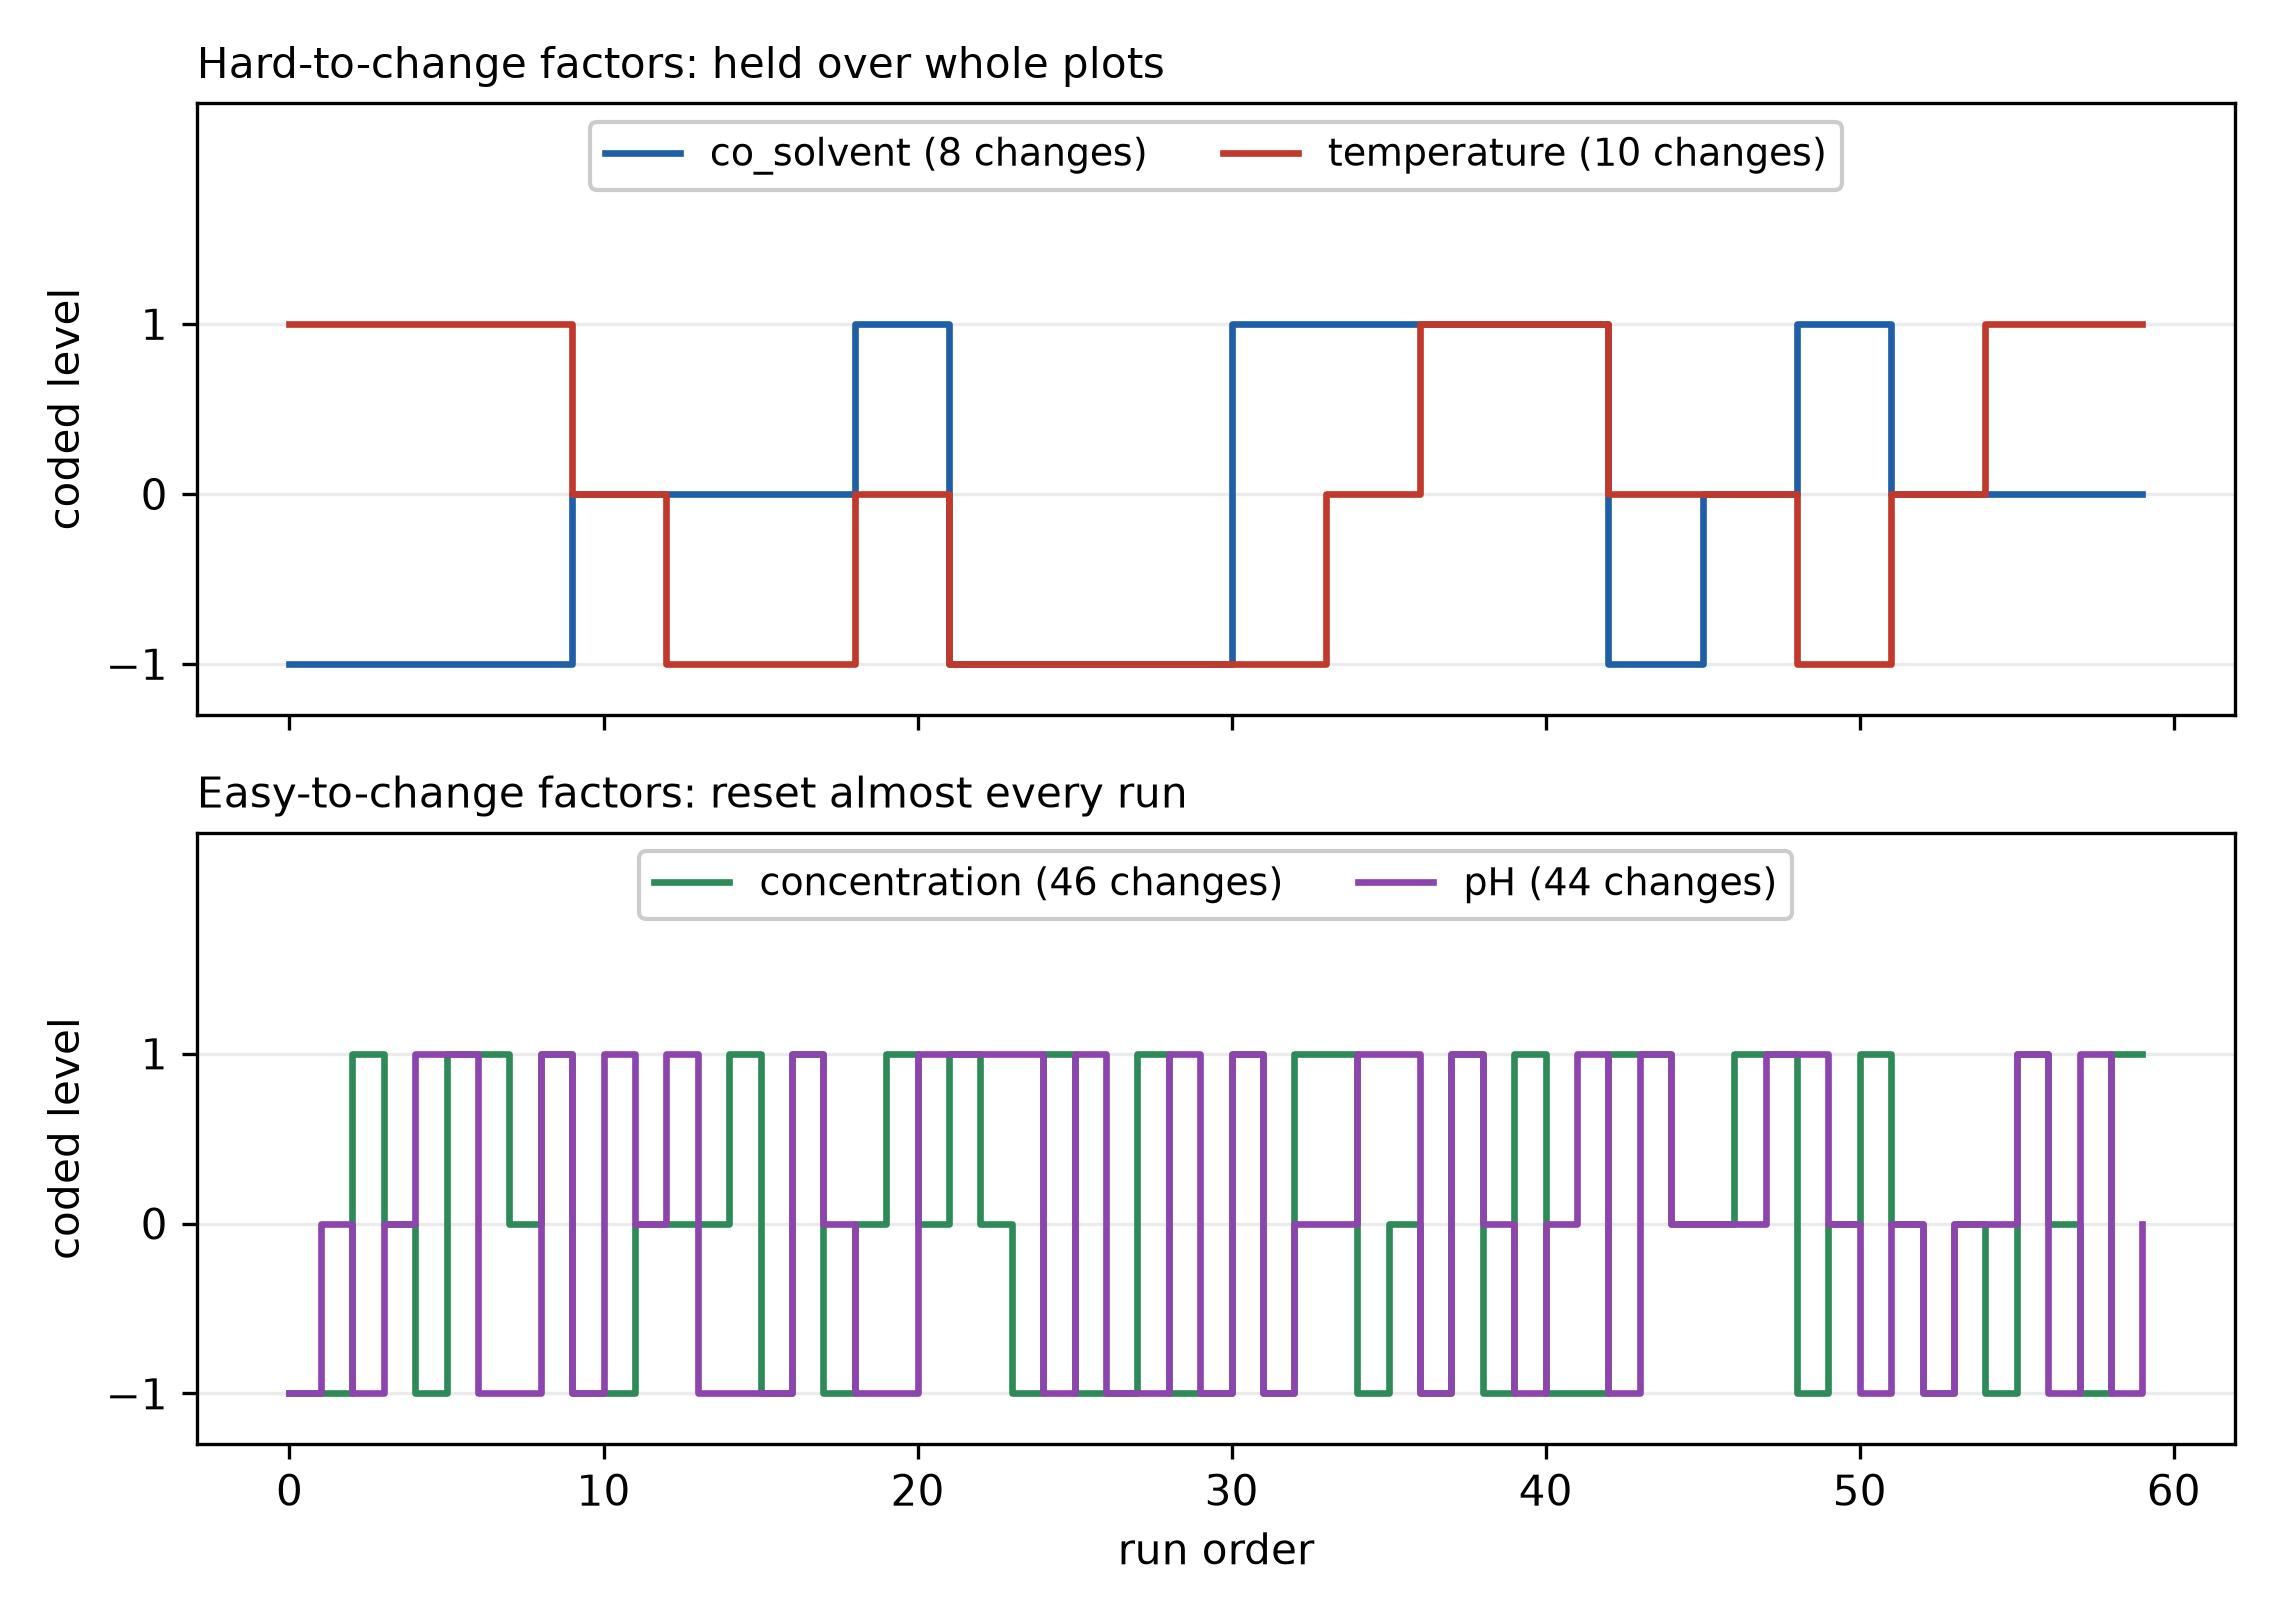
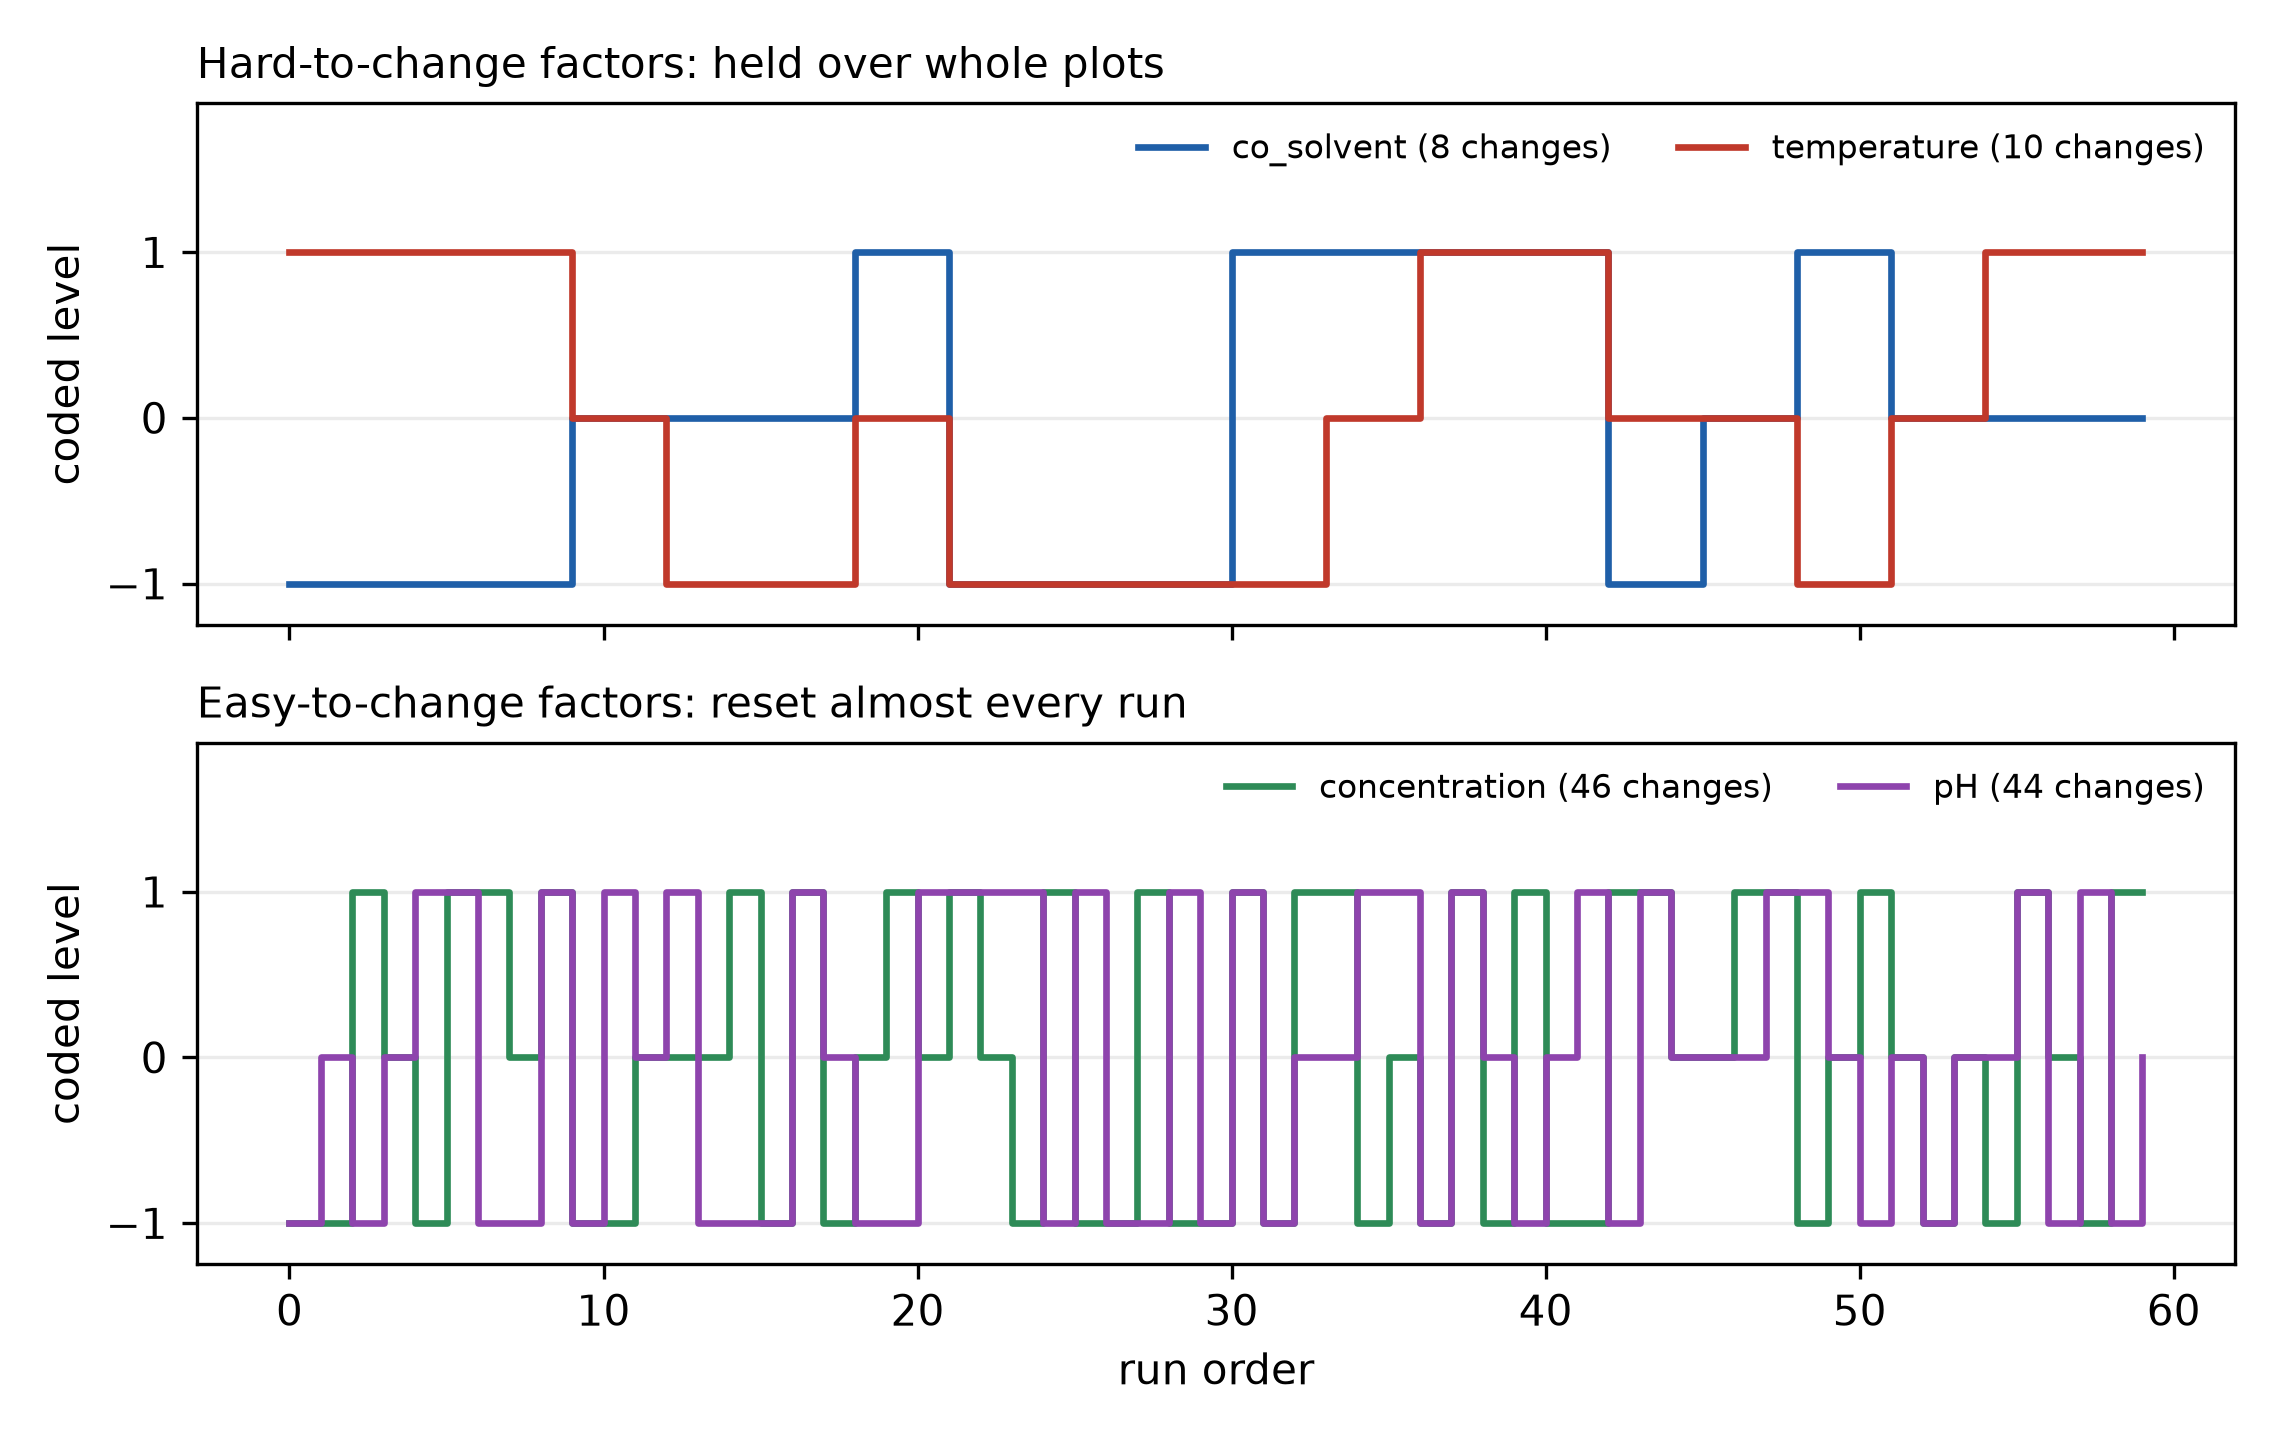
Keep the frameless legend, just raise the y-axis headroom
Revert the framed, centred legend. Restore the original frameless upper-right
legend and instead raise the y-axis maximum a little (to 1.9) so the legend
sits just above the +1 traces without overlapping them.

Claude-Session: https://claude.ai/code/session_01TvUM1DPgi2S3JFLjRJTJWj

diff --git a/doe/colour-split-plot-run-order.py b/doe/colour-split-plot-run-order.py
@@ -15,7 +15,7 @@ design = build_design("i_optimal", budget=60)
 run = design.design.sort_values("RunOrder").reset_index(drop=True)
 x = np.arange(len(run))
 
-fig, axes = plt.subplots(2, 1, figsize=(7.6, 5.4), sharex=True)
+fig, axes = plt.subplots(2, 1, figsize=(7.6, 4.8), sharex=True)
 hard = HARD_TO_CHANGE
 easy = [n for n in CONT if n not in hard]
 palette = {"co_solvent": "#1f5fa8", "temperature": "#c0392b",
@@ -33,14 +33,12 @@ for ax, group, title in [(axes[0], hard, "Hard-to-change factors: held over whol
         ax.step(x, v, where="post", color=palette[name], lw=1.6,
                 label=f"{name} ({n_changes(v)} changes)")
     ax.set_ylabel("coded level")
-    # Headroom above the +1 line so the legend sits in clear space, not over the steps.
-    ax.set_ylim(-1.3, 2.3)
+    # A little headroom above the +1 line so the legend clears the step traces.
+    ax.set_ylim(-1.25, 1.9)
     ax.set_yticks([-1, 0, 1])
     ax.grid(axis="y", alpha=0.25)
     ax.set_title(title, fontsize=10, loc="left")
-    # Opaque frame so a step line cannot show through the legend text.
-    ax.legend(loc="upper center", ncol=2, fontsize=9, frameon=True, facecolor="white",
-              edgecolor="0.8", framealpha=1.0)
+    ax.legend(frameon=False, fontsize=8, loc="upper right", ncol=2)
 
 axes[1].set_xlabel("run order")
 fig.tight_layout()
